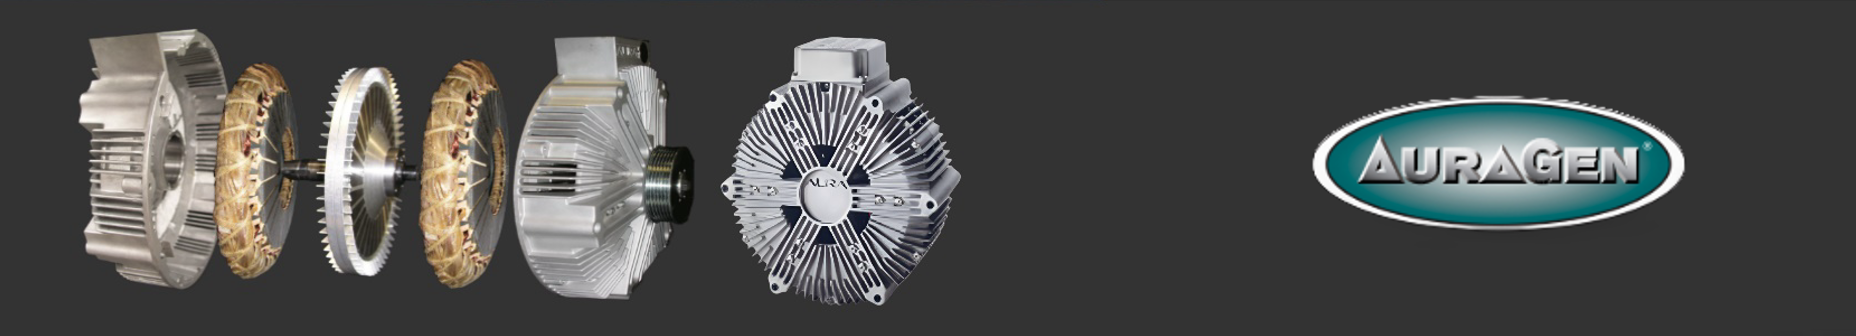
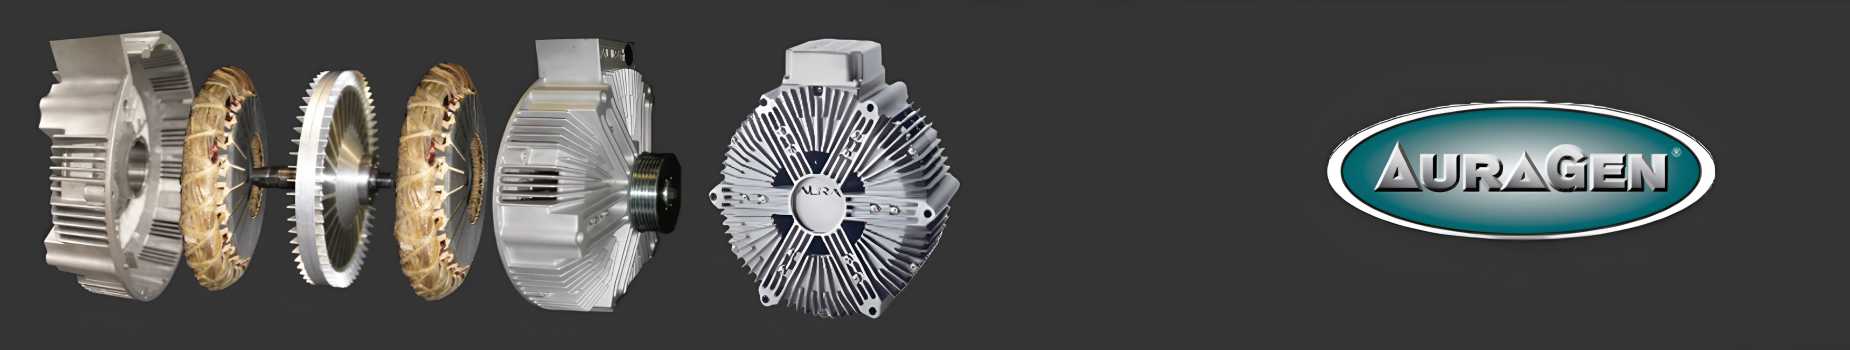
fix: 팀1 메인 페이지 ux/ui 개선

Changed region(s): [[0.0, 0.0893, 0.5238, 0.9226], [0.7086, 0.2679, 0.9243, 0.6845]]

diff --git a/src/pages/Team1.tsx b/src/pages/Team1.tsx
@@ -8,7 +8,8 @@ const blocks = [
     {
         id: 1,
         bgImage: "/images/team1/main/PIC.png",
-        mbImage: "/images/team1/main/PIC-mb.jpg",
+        mdImage: "/images/team1/main/PIC-md.png",
+        smImage: "/images/team1/main/PIC-sm.png",
         logoImage: "/images/team1/main/PICLogo.svg",
         productInfo: "/team1/picProductInfo",
         managerInfo: "/team1/picManagerInfo",
@@ -22,7 +23,8 @@ const blocks = [
     {
         id: 2,
         bgImage: "/images/team1/main/QuanticEvans.png",
-        mbImage: "/images/team1/main/QuanticEvans-mb.jpg",
+        mdImage: "/images/team1/main/QuanticEvans-md.png",
+        smImage: "/images/team1/main/QuanticEvans-sm.png",
         logoImage: "/images/team1/main/QuanticEvansLogo.png",
         productInfo: "/team1/quanticEvansProductInfo",
         managerInfo: "/team1/quanticEvansManagerInfo",
@@ -36,7 +38,8 @@ const blocks = [
     {
         id: 3,
         bgImage: "/images/team1/main/AuraGen.png",
-        mbImage: "/images/team1/main/AuraGen-mb.jpg",
+        mdImage: "/images/team1/main/AuraGen-md.png",
+        smImage: "/images/team1/main/AuraGen-sm.png",
         logoImage: "/images/team1/main/AuraGenLogo-white.png",
         productInfo: "/team1/auraGenProductInfo",
         managerInfo: "/team1/auraGenManagerInfo",
@@ -52,18 +55,21 @@ const blocks = [
 export default function Team1() {
     const [activeBlock, setActiveBlock] = useState<number | null>(null);
     const [isMobile, setIsMobile] = useState(false);
+    const [isTablet, setIsTablet] = useState(false);
 
-    const imagePaths = blocks.flatMap(b => [b.bgImage, b.mbImage, b.logoImage]);
+    const imagePaths = blocks.flatMap(b => [b.bgImage, b.mdImage, b.logoImage]);
     const loaded = useImagePreloader(imagePaths);
 
     useEffect(() => {
-        const checkMobile = () => {
-            setIsMobile(window.innerWidth <= 1024);
+        const updateDeviceSize = () => {
+            const width = window.innerWidth;
+            setIsMobile(width <= 640);
+            setIsTablet(width > 640 && width <= 1024);
         };
 
-        checkMobile();
-        window.addEventListener("resize", checkMobile);
-        return () => window.removeEventListener("resize", checkMobile);
+        updateDeviceSize();
+        window.addEventListener("resize", updateDeviceSize);
+        return () => window.removeEventListener("resize", updateDeviceSize);
     }, []);
 
     if (!loaded) return <LoadingScreen isWhite={false} />;
@@ -83,7 +89,11 @@ export default function Team1() {
             <div className="flex flex-col h-full transition-all ease-in-out">
                 {blocks.map((block) => {
                     const isActive = activeBlock === block.id;
-                    const bgImage = isMobile ? block.mbImage : block.bgImage;
+                    const bgImage = isMobile
+                        ? block.smImage
+                        : isTablet
+                            ? block.mdImage
+                            : block.bgImage;
 
                     return (
                         <motion.div
@@ -93,7 +103,6 @@ export default function Team1() {
                                 backgroundImage: `url(${bgImage})`,
                                 flexGrow: isActive ? 1.15 : 1,
                                 flexBasis: 0,
-                                minHeight: "80px",
                             }}
                             onMouseEnter={() => handleInteraction(block.id)}
                             onMouseLeave={handleReset}
@@ -102,7 +111,7 @@ export default function Team1() {
                         >
                             <div className="absolute inset-0 bg-black bg-opacity-0 group-hover:bg-opacity-75 transition-all duration-500 z-10" />
                             <div className="relative z-20 flex w-full h-full px-2 sm:px-6 md:px-10 py-4 items-center justify-between">
-                                {isMobile ? (
+                                {isTablet ? (
                                     <div className="flex flex-row w-full h-full">
                                         <div className="w-1/3 flex items-center justify-center">
                                             <AnimatePresence>

diff --git a/src/pages/Home.tsx b/src/pages/Home.tsx
@@ -82,7 +82,7 @@ export default function Home() {
 
             {/* 중간 배너 영역 */}
             <motion.div
-                className="absolute top-[33vh] left-0 w-full h-[33vh] z-10 flex"
+                className="absolute top-[33vh] left-0 w-full h-[34vh] z-10 flex"
                 initial={{ opacity: 0, y: 20 }}
                 animate={{ opacity: 1, y: 0 }}
                 transition={{ duration: 1, delay: 1.6 }}
